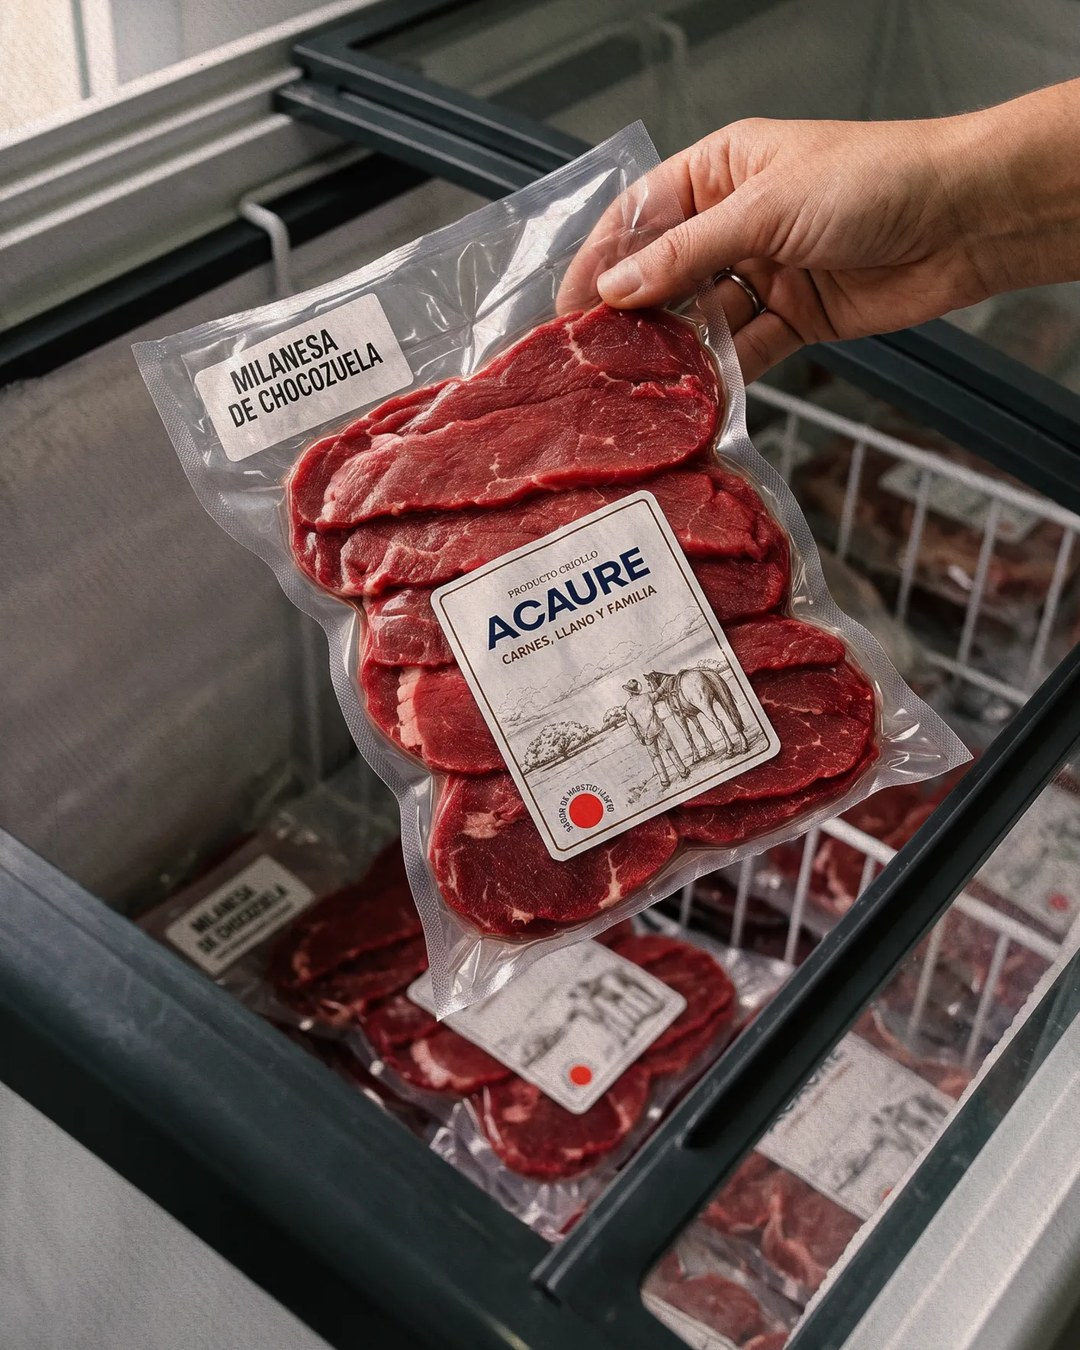
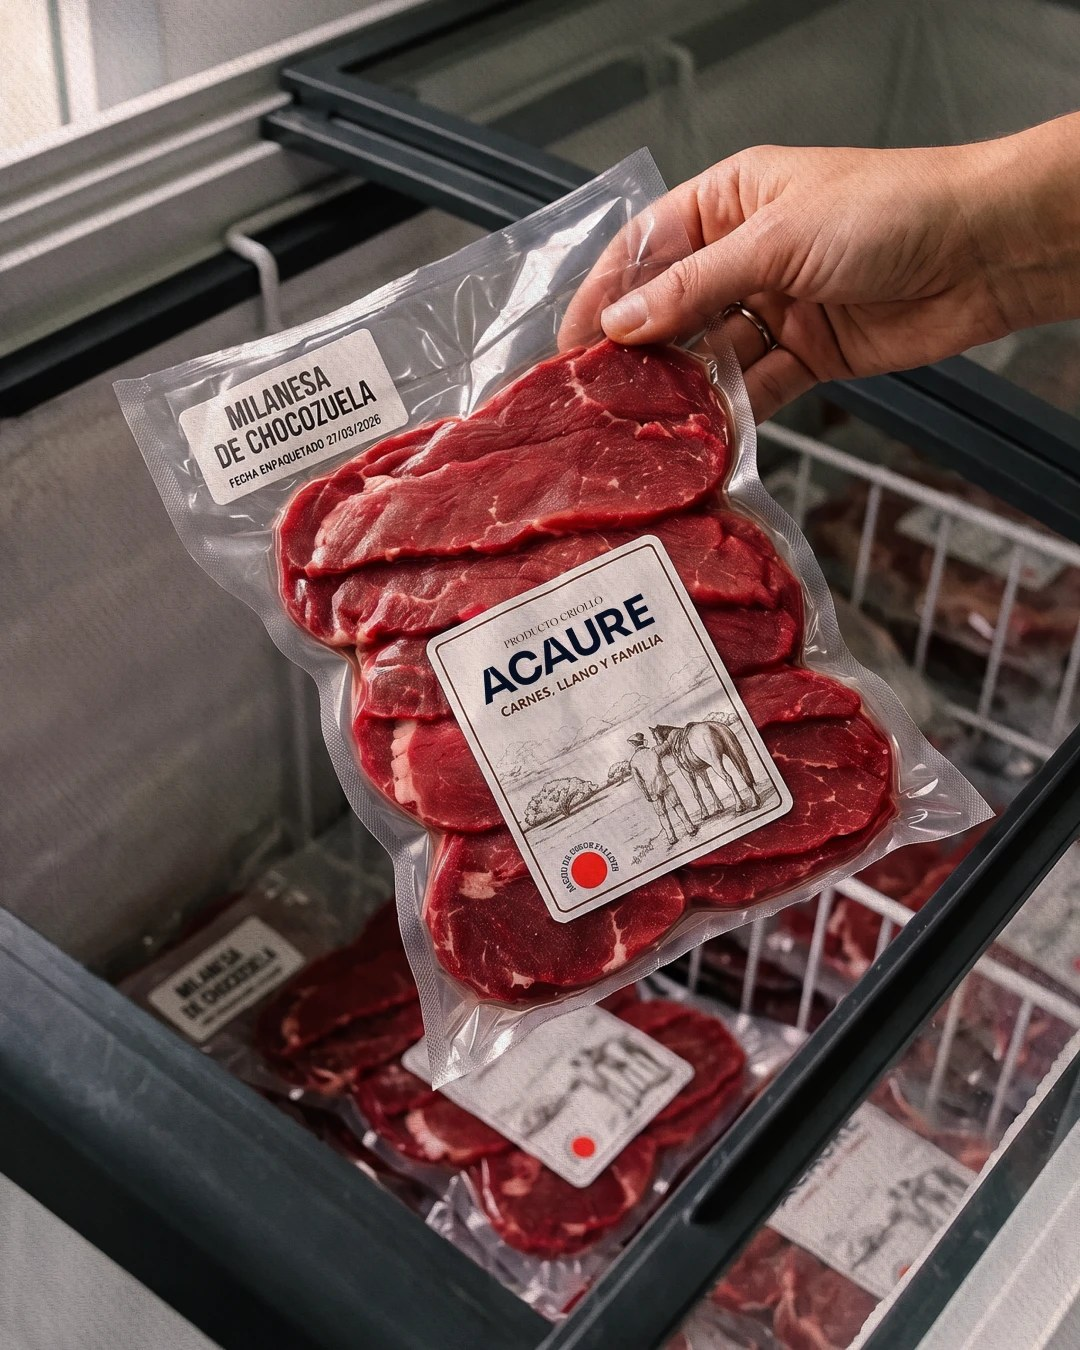
Grilla Acaure octubre: nueva foto de la milanesa en el carrusel 7 (empaque con fecha)

diff --git a/public/acaure-octubre/index.html b/public/acaure-octubre/index.html
@@ -543,7 +543,7 @@ const posts = [
   ],
   "num": 7,
   "story": false,
-  "caption": "De la mesa de corte a tu congelador.\n\nCada pieza se corta a mano y al grosor que pide el plato. La milanesa sale finita para que se cocine pareja. La pechuga se abre en filetes para que no quede cruda por dentro ni seca por fuera.\n\nDespués va al vacío, con el nombre del corte en la etiqueta. Así llega a tu casa listo para guardar.\n\n¿Milanesa empanizada o a la plancha? Cuéntanos cómo la preparan en tu casa.\n\nCarnes, Llano y Familia.\n🌐 www.acaure.com"
+  "caption": "De la mesa de corte a tu congelador.\n\nCada pieza se corta a mano y al grosor que pide el plato. La milanesa sale finita para que se cocine pareja. La pechuga se abre en filetes para que no quede cruda por dentro ni seca por fuera.\n\nDespués va al vacío, con el nombre del corte y la fecha en que se empacó en la etiqueta. Así sabes qué tienes y desde cuándo.\n\n¿Milanesa empanizada o a la plancha? Cuéntanos cómo la preparan en tu casa.\n\nCarnes, Llano y Familia.\n🌐 www.acaure.com"
  }
 ];
 const stories = [
